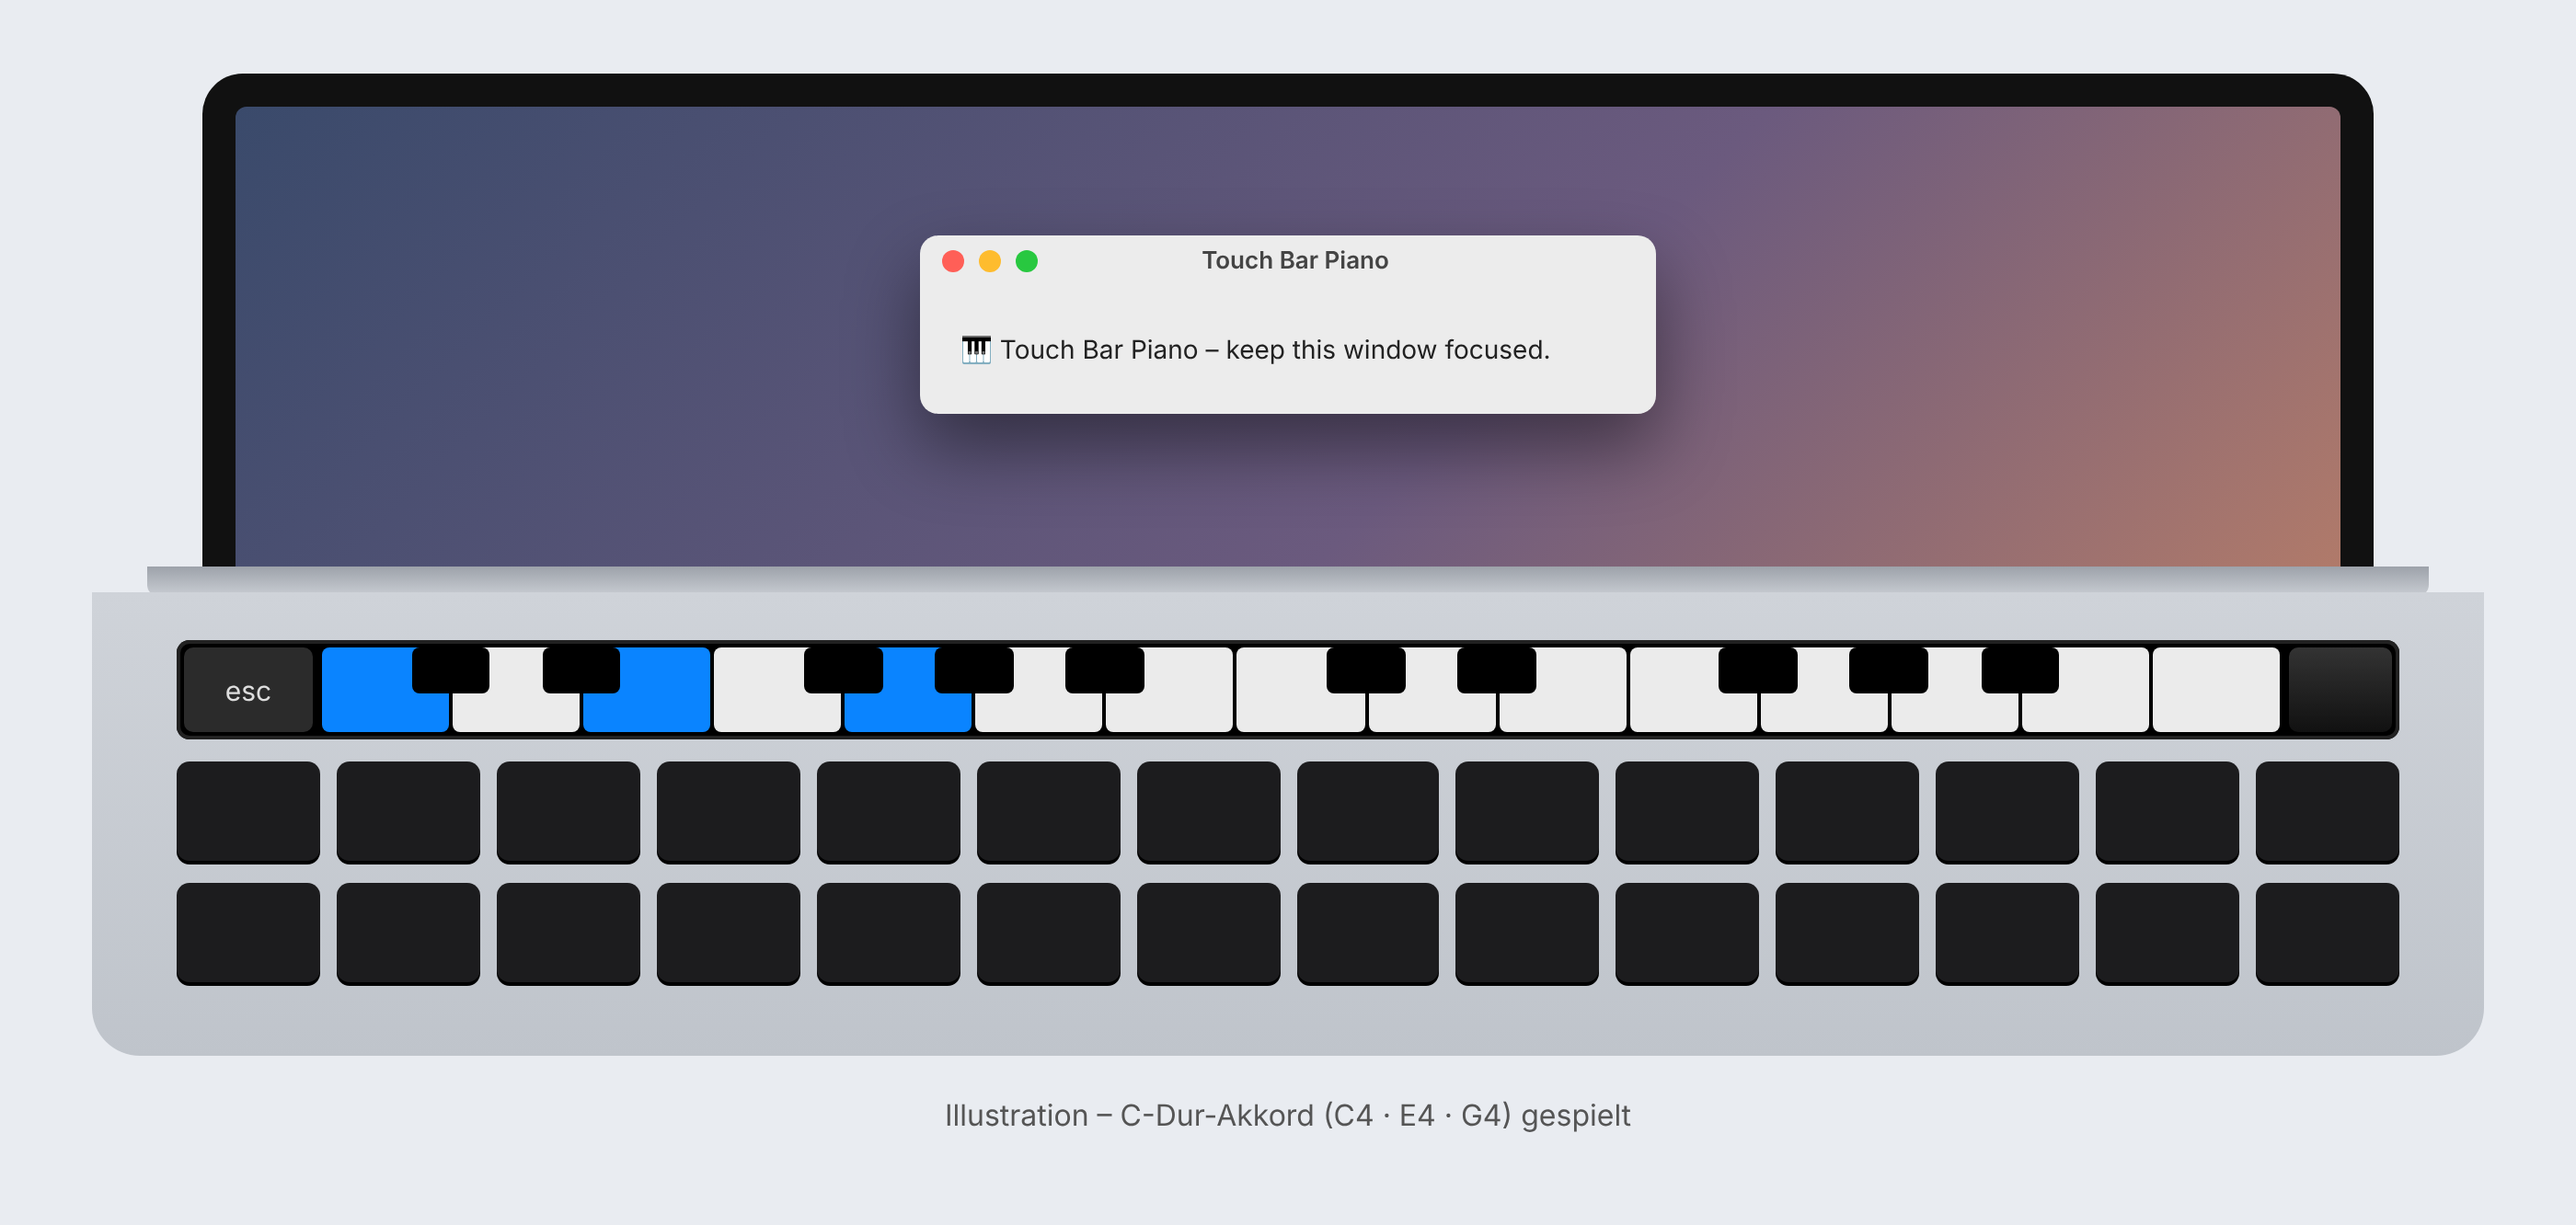
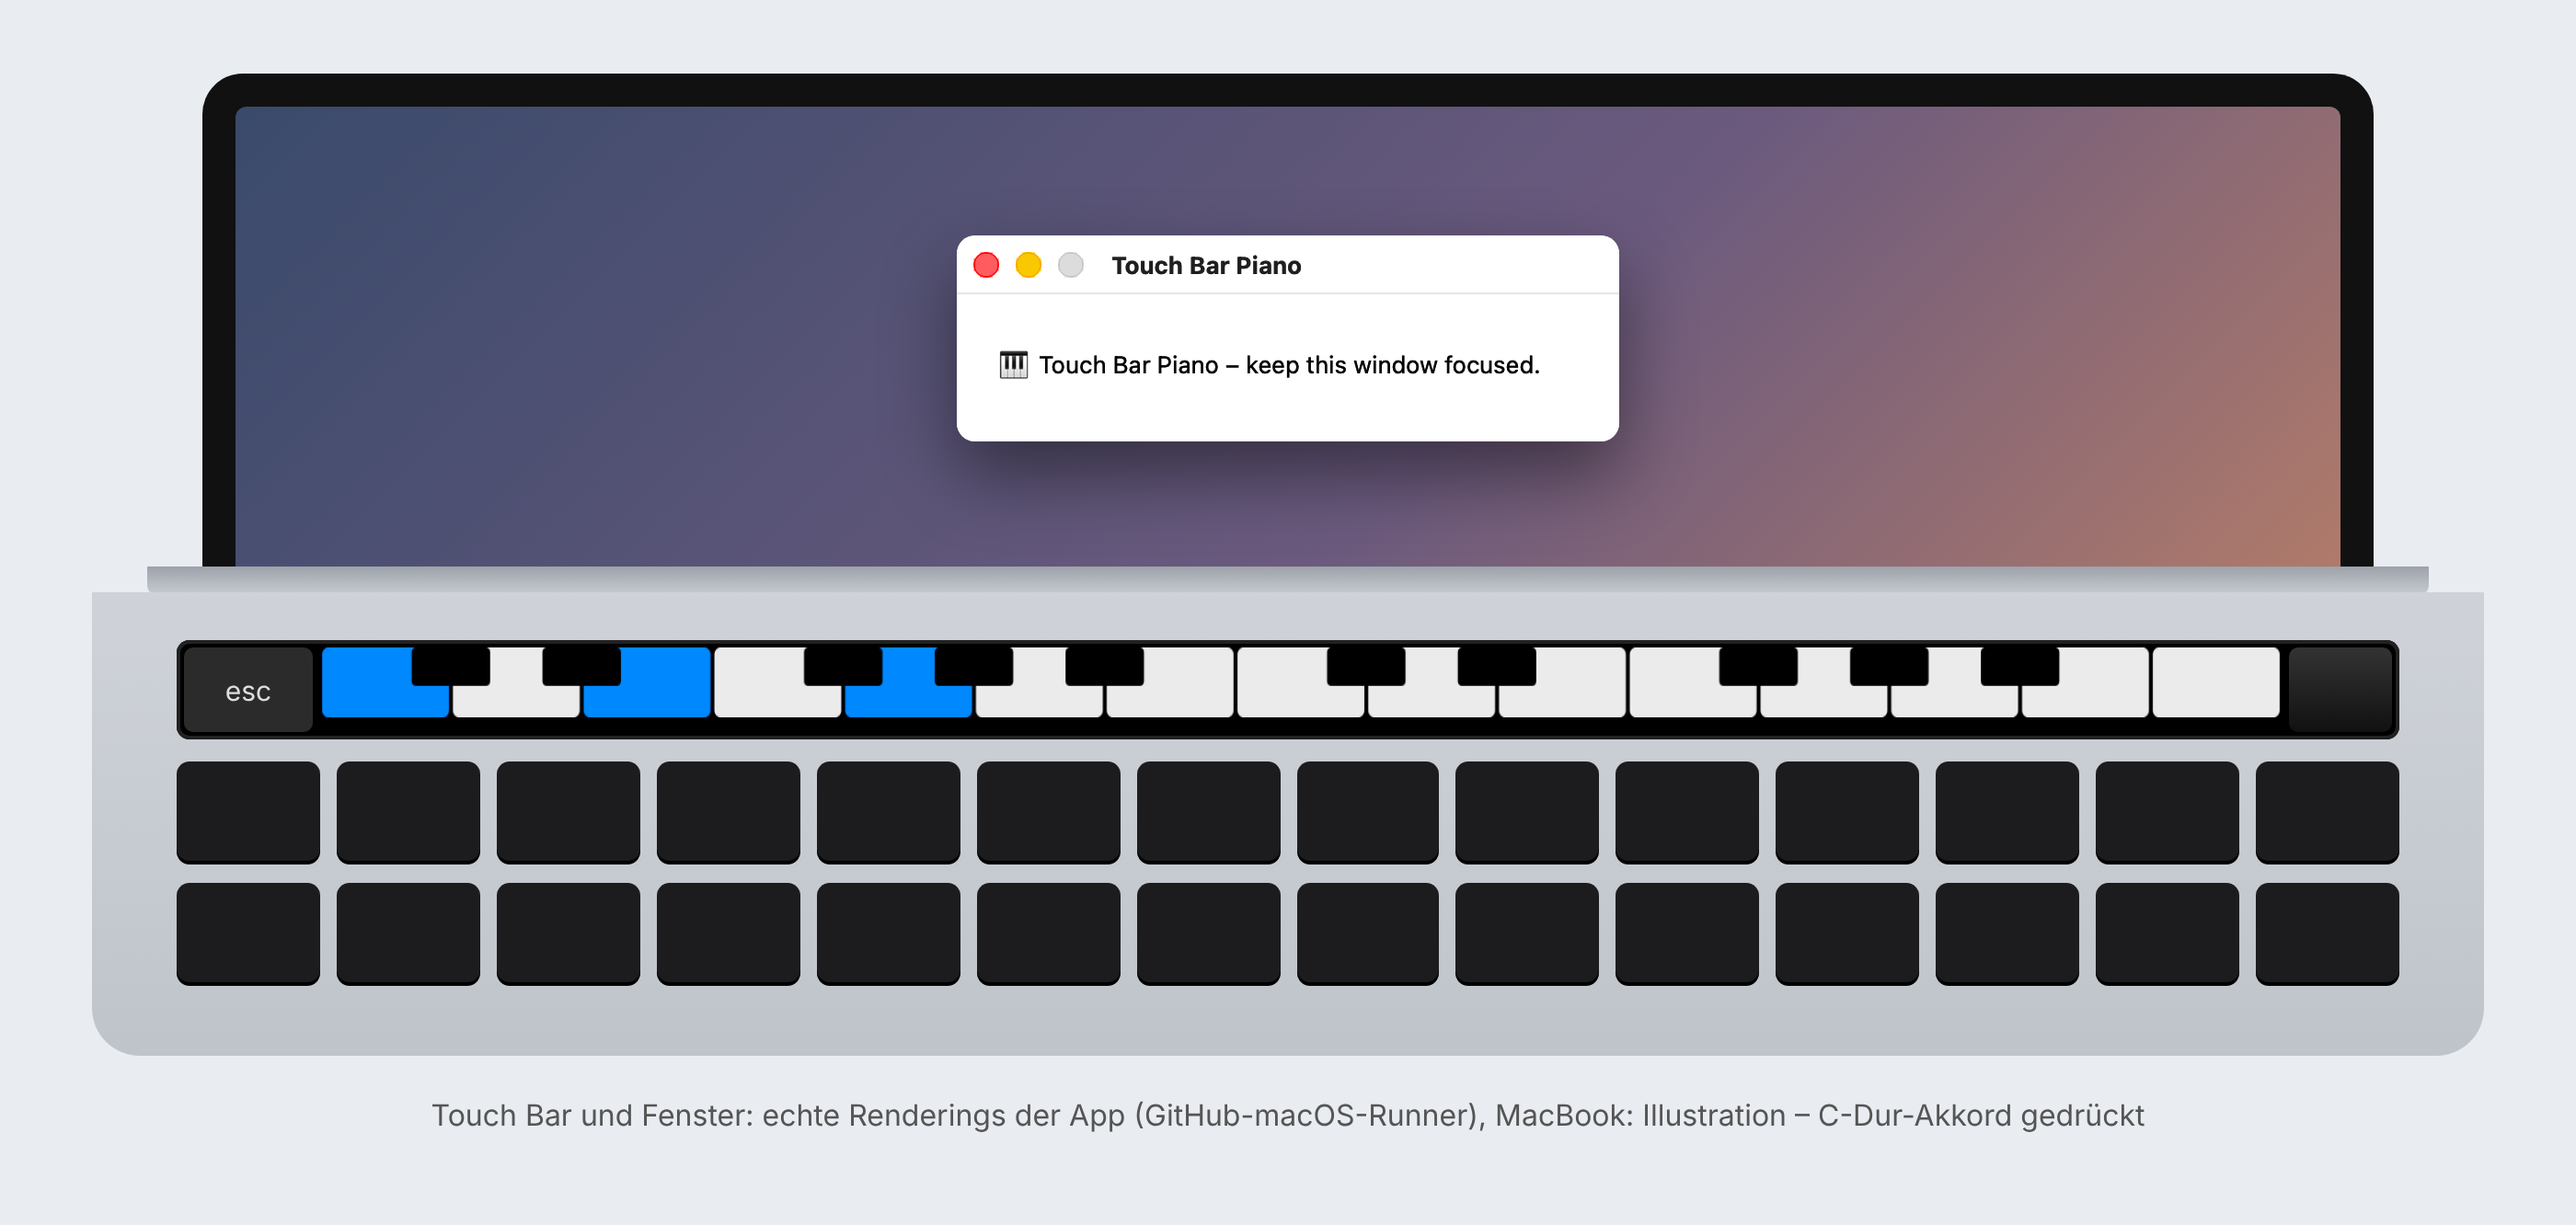
Use real app renders in preview image
Claude-Session: https://claude.ai/code/session_01Sk4P59ezPqq8GNnCPdJYPL

diff --git a/README.md b/README.md
@@ -3,7 +3,7 @@
 Verwandelt die Touch Bar des MacBook Pro in ein Klavier mit 2 Oktaven.
 
 ![Touch Bar Piano – Illustration](docs/preview.png)
-<sub>Illustration (gerendertes Mockup, kein Screenshot). Tasten-Layout entspricht der App.</sub>
+<sub>Touch Bar und Fenster sind echte Renderings der App (auf einem GitHub-macOS-Runner via `PIANO_SNAPSHOT` erzeugt), das MacBook drumherum ist eine Illustration.</sub>
 
 ## Features
 - **2 Oktaven** (C4–C6): 15 weisse + 10 schwarze Tasten
